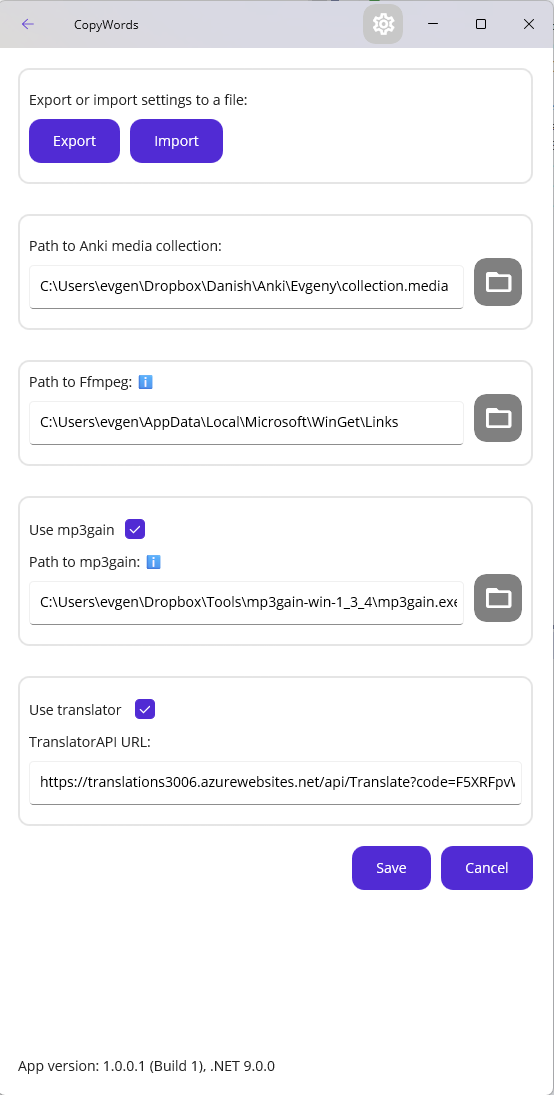
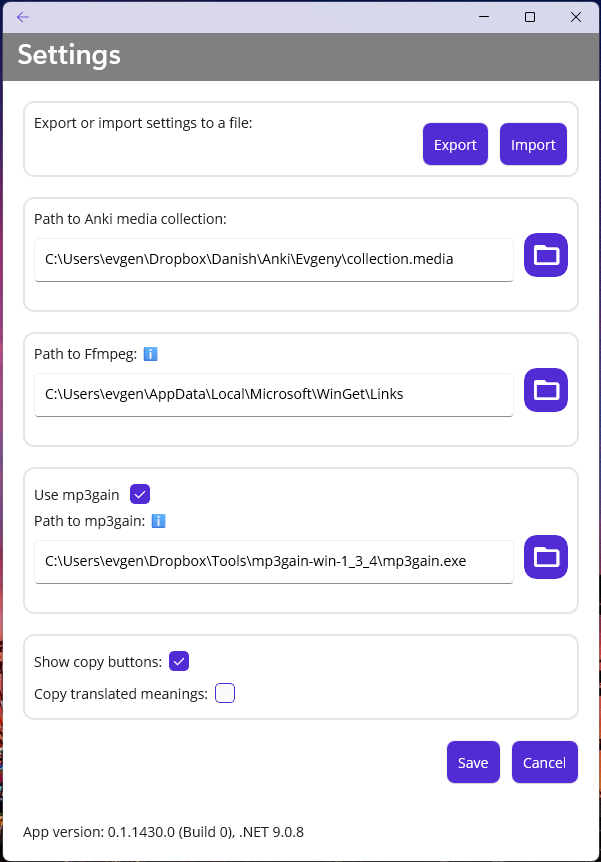
Merged PR 580: Update readme
Update images

Changed region(s): [[0.0, 0.0, 1.0, 1.0]]

diff --git a/README.md b/README.md
@@ -1,18 +1,57 @@
 # CopyWords
 
-CopyWords is a helper tool designed for adding new Danish or Spanish words to the [Anki](http://ankisrs.net/) flashcard system.
+CopyWords is a helper tool for adding new Danish or Spanish words to the [Anki](http://ankisrs.net/) flashcard system.
 
-The Anki card template has been customized to include additional details about a word, such as its transcription, sound file, and more. CopyWords simplifies the process of adding new cards by automatically searching for words in online dictionaries and parsing their components. Users can then use the "Copy text" buttons to copy specific information to the clipboard and paste it into the Anki editor.
+## Features
 
-The app is built using [Microsoft .NET MAUI](https://learn.microsoft.com/en-us/dotnet/maui/what-is-maui) technology and is compatible with both Windows and macOS.
+- **Anki integration**
+  The Anki card template has been customized to include extra details about each word, such as its transcription, audio file, and more. CopyWords makes creating new cards easier by automatically looking up words in online dictionaries and extracting their components. With the **"Copy text"** buttons, users can copy specific information to the clipboard and paste it directly into the Anki editor.
 
+- **Dictionary mode**
+  CopyWords can also be used as a simple online dictionary. In this mode, all buttons are hidden except **"play sound"** and **"save sound"**, making it useful for quick lookups with translations from Danish or Spanish.
+
+## Technology
+
+CopyWords is built with [Microsoft .NET MAUI](https://learn.microsoft.com/en-us/dotnet/maui/what-is-maui) and currently runs on both Windows and Android.
+
+## Installation
+
+### Android
+
+Download apk file from [Releases ](https://github.com/evgenygunko/CopyWordsDA/releases) and install.
+
+### Windows
+
+To install a MAUI app you need to add a code signing certificate [(*.cer file)](https://github.com/evgenygunko/CopyWordsDA/releases) used for singing the app into the trusted certificates store.
+
+See this answer https://stackoverflow.com/a/75940629
+1. Open the Certificate, MyApp.cer, by double-clicking.
+2. Click on Install Certificate
+3. In the Certificate Import Wizard window,
+   - Select Local Machine and click Next
+   - Select Place all certificates in the following store
+   - Browse and select Trusted Root Certification Authorities
+   - Click Next and take defaults. After this you should see a pop-up stating that "The import was successful."
+
+You now can proceed to side-load install the .NET MAUI app.
 
 ## How to Use
 
-1. Select the source language. For Danish we will use the [Den Danske Ordbog](http://ordnet.dk/ddo/) and for Spanish we will use [SpanishDict](https://www.spanishdict.com/) online dictionary.
+## Dictionary mode
+1. Select the source language.
+2. Type a word (or part of it) in the Search box and click the **Search** button.
+
+![Dictionary mode](./img/CopyWords_Android.png)
+
+### Copy mode
+
+1. Select the source language.
 2. Type a word (or part of it) in the Search box and click the **Search** button.
 3. If the word exists in the online dictionary, it will be parsed and presented within the tool.
 4. Use the **Copy** buttons to copy the relevant text into the clipboard and paste it into the Anki card editor.
+
+**Note:** The screenshot is taken on Windows, as it is easier to copy different parts of a word there.
+On Android, you can also copy the **front** and **back** fields.
 
 ![Copy word parts into Anki](./img/Copy_word_parts.png)
 
@@ -23,7 +62,8 @@ The app is built using [Microsoft .NET MAUI](https://learn.microsoft.com/en-us/d
 
 ## Translations
 
-The app can call an Azure Function App (refer to this repository: [Azure Translations](https://github.com/evgenygunko/Translations/tree/master)) to translate headlines and definitions. This feature can be enabled or disabled in the **Settings**.
+CopyWords integrates with a companion web application to provide translations for headlines and definitions.
+The service is available in the [Translations](https://github.com/evgenygunko/Translations/tree/master) repository.
 
 ## Settings
 
@@ -36,9 +76,9 @@ The settings dialog can be accessed by clicking the **Settings** button in the a
 - **Path to Anki Media Collection**: Specifies the path to Anki's media collection folder for the current user. This folder contains the media files displayed or played on Anki cards.
 - **Path to FFMpeg**: Specifies the path to the [ffmpeg](https://www.ffmpeg.org/) utility, which is used to convert audio files from video formats to MP3.
 - **Path to MP3Gain**: Specifies the path to the [mp3gain](http://mp3gain.sourceforge.net/) utility, which is used to normalize the sound volume of MP3 files. Using this tool is optional.
-- **Translator API URL**: Specifies the URL for the [Translator app](https://github.com/evgenygunko/Translations) which can return translations in additional langugages. Using this tool is optional.
+- **Show copy buttons**: selects copy or dictionary mode.
 
-## Card Templates
+## Card Templates (if you decide to use it for adding Anki cards)
 
 Anki card templates can be customized but unfortunately, they cannot be exported directly. Templates are saved with a "deck," which is a set of cards the user wants to learn. Users can add new cards with new words to their collection, making learning and memorization more efficient.
 
